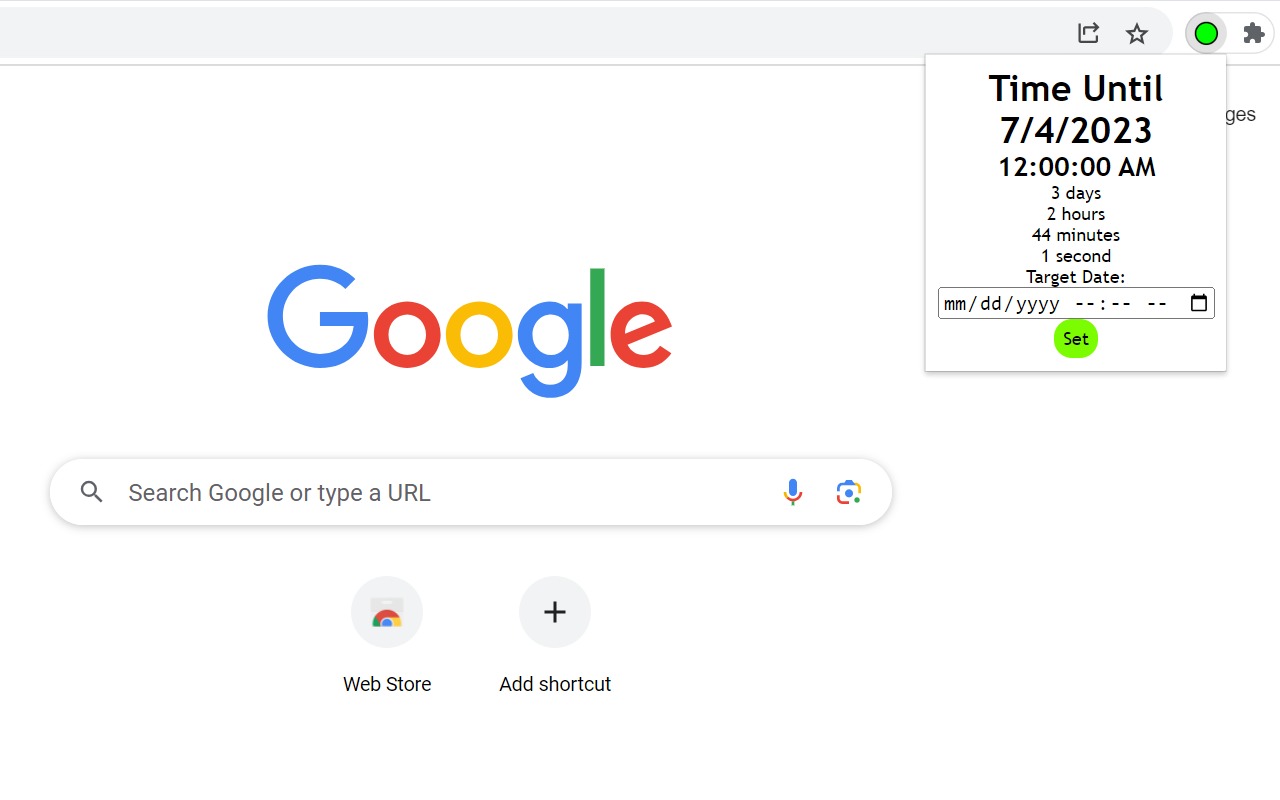
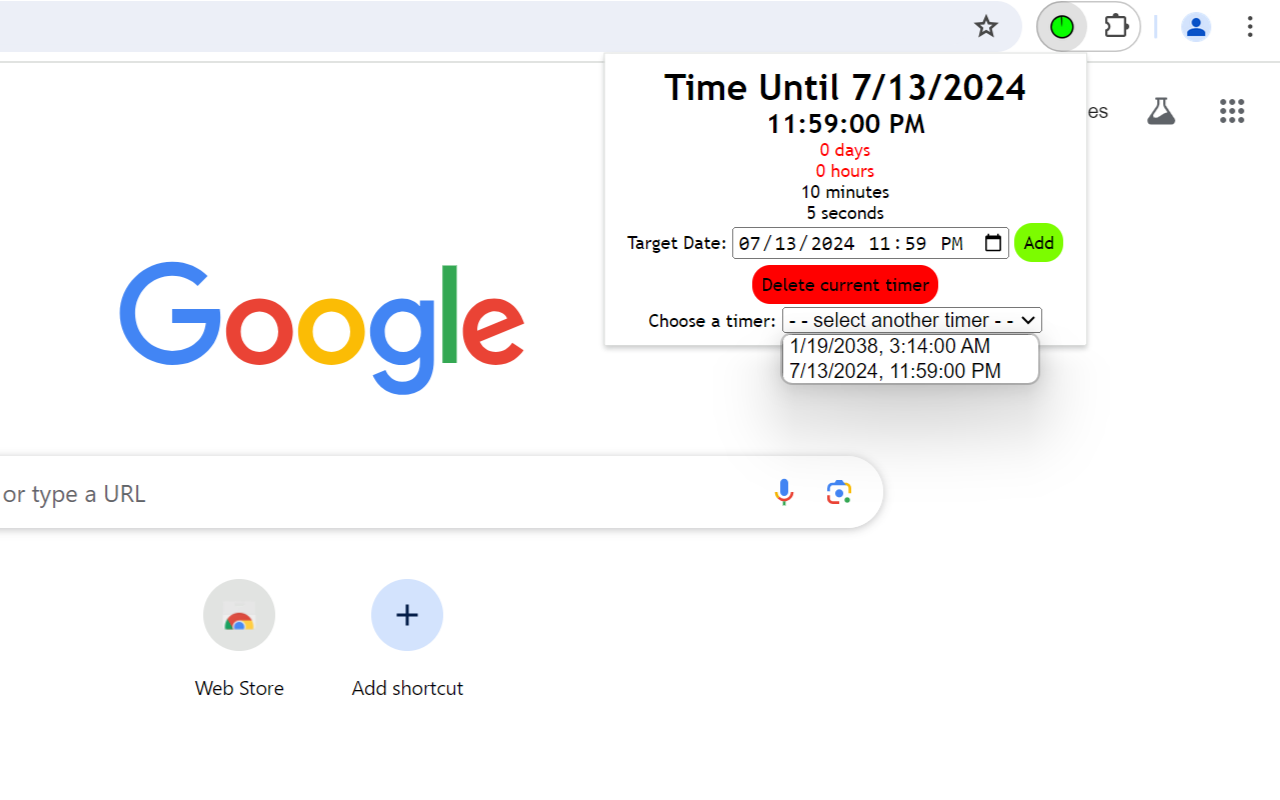
updated chrome version

diff --git a/Chrome/popup/countdown.js b/Chrome/popup/countdown.js
@@ -1,18 +1,36 @@
-const set = document.getElementById("set");
-set.addEventListener('click', () => setDate());
+populate();
+const add = document.getElementById("add");
+add.addEventListener('click', () => setDate());
+const remove = document.getElementById("remove");
+remove.addEventListener('click', () => awaitRemove());
+var list = document.getElementById("list");
+list.addEventListener("change", () => changeDate());
 calcOffset();
 setInterval(() => calcOffset(), 1000);
 
+function changeDate() {
+    console.log('change ' + list.value);
+    chrome.storage.local.set({ 'number': list.value });
+}
+async function awaitRemove() {
+    var num = await chrome.storage.local.get('number');
+    removeDate(num.number);
+}
 
 async function calcOffset() {
     var d = new Date();
+
     try {
-        var target = await chrome.storage.local.get('target');
+        var num = await chrome.storage.local.get('number');
+        num = num.number;
+        var target = await chrome.storage.local.get(['target' + num]);
     } catch (error) {
         console.log(error);
     }
-    target = new Date(target.target);
+    target = new Date(target['target' + num]);
+
     var header = document.getElementById("header");
+
     header.textContent = "Time Until " + target.toLocaleDateString();
     var subhead = document.getElementById("subhead");
     subhead.textContent = target.toLocaleTimeString();
@@ -29,6 +47,10 @@ async function calcOffset() {
     var sec = document.getElementById("second");
     var secs = Math.max(0, Math.floor((combined) / 1000 - days * 86400 - hours * 3600 - mins * 60));
     sec.textContent = Math.floor(secs) + (Math.floor(secs) == 1 ? " second" : " seconds");
+    day.style.setProperty('color', 'black');
+    hour.style.setProperty('color', 'black');
+    min.style.setProperty('color', 'black');
+    sec.style.setProperty('color', 'black');
 
     if (days == 0) {
         day.style.setProperty('color', 'red');
@@ -41,18 +63,136 @@ async function calcOffset() {
             }
         }
     }
+    chrome.runtime.sendMessage("draw");
+
     return secs;
 }
-function setDate() {
+async function setDate() {
     calcOffset();
+    try {
+        var data = Object.keys(await chrome.storage.local.get());
+    } catch (error) {
+        console.log(error);
+    }
+    var n = (data.length - 1) / 2;
     var date = new Date(document.getElementById("date").value);
     //    var num = date.getTime()+(date.getTimezoneOffset()*60000);
     //  date = new Date(num);
     //console.log(date);
     let d = new Date();
-    if(!isNaN(date.getTime())){
-        chrome.storage.local.set({ 'target': date.getTime()});
-        chrome.storage.local.set({'start': d.getTime()});
+    if (!isNaN(date.getTime())) {
+        chrome.storage.local.set({ ['target' + n]: date.getTime() });
+        chrome.storage.local.set({ ['start' + n]: Date.now() });
+        chrome.storage.local.set({ 'number': n });
+
+        var day = document.getElementById("day");
+        var hour = document.getElementById("hour");
+        var min = document.getElementById("minute");
+        var sec = document.getElementById("second");
+
+        day.style.setProperty('color', 'black');
+        hour.style.setProperty('color', 'black');
+        min.style.setProperty('color', 'black');
+        sec.style.setProperty('color', 'black');
     }
     calcOffset();
+    populate();
+    if (!isNaN(date.getTime()))
+        chrome.runtime.sendMessage("draw");
+}
+async function populate() {
+    //converts old versions (1.x.x) to the new format of versions 2.x.x
+    try {
+        var tar = await chrome.storage.local.get('target');
+    } catch (error) {
+    }
+    tar = Object.entries(tar);
+    if(tar.length!=0){
+        var sta = await chrome.storage.local.get('start');
+        chrome.storage.local.set({'target0':tar[0][1]});
+        chrome.storage.local.set({'start0':sta.start});
+        chrome.storage.local.remove('target');
+        chrome.storage.local.remove('start');
+    }
+    //removes old timers
+    checkForFinished();
+    var stuff = await chrome.storage.local.get();
+    if(Object.values(stuff).length<=1){
+            await chrome.storage.local.set({ 'target0': (new Date(2038, 0, 19, 3, 14)).getTime() });
+            await chrome.storage.local.set({ 'start0': Date.now() });
+            await chrome.storage.local.set({ 'number': 0 });
+    }
+    //adds options to the selection so that the user can choose which timer to use
+    var list = document.getElementById("list");
+    list.options.length = 0;
+    try {
+        var number = await chrome.storage.local.get('number');
+        if (number.number == 0) {
+            chrome.storage.local.set({ 'number': 0 });
+        }
+        var data = Object.keys(await chrome.storage.local.get());
+    } catch (error) {
+        console.log(error);
+    }
+    var placeholder = document.createElement("option");
+    placeholder.text = ' - - select another timer - - ';
+    placeholder.value = 0;
+    placeholder.disabled = true;
+    placeholder.selected = true;
+    placeholder.hidden = true;
+    list.add(placeholder)
+    //   console.log((data.length-1)/2);
+    for (var i = 0; i < (data.length - 1) / 2; i++) {
+        var option = document.createElement("option");
+        var txt = await chrome.storage.local.get('target' + i);
+        //   console.log(txt);
+        txt = (new Date(txt['target' + i])).toLocaleString();
+        option.text = txt;
+        option.value = i;
+        list.add(option);
+    }
+}
+async function removeDate(num) {
+    if (num > -1) {
+        chrome.storage.local.remove('target' + num);
+        chrome.storage.local.remove('start' + num);
+        var data = await chrome.storage.local.get();
+        data = Object.entries(data);
+        var counter = 0;
+        // console.log(data);
+        for (var i = 0; i < data.length; i++) {
+            var startss = data[i][0].substring(0, 5);
+            if (startss === "start" && parseInt(data[i][0].substring(5)) > num) {
+                chrome.storage.local.set({ ['start' + (parseInt(data[i][0].substring(5)) - 1)]: data[i][1] });
+                counter++;
+            }
+            if (startss === "targe" && parseInt(data[i][0].substring(6)) > num) {
+                chrome.storage.local.set({ ['target' + (parseInt(data[i][0].substring(6)) - 1)]: data[i][1] });
+            }
+        }
+        if(counter == 0){
+            chrome.storage.local.set({'number':num-1});
+        }
+        num = (data.length - 1) / 2;
+        chrome.storage.local.remove('target' + num);
+        chrome.storage.local.remove('start' + num);
+        populate();
+        chrome.runtime.sendMessage("draw");
+
+    }
+}
+async function checkForFinished(){
+    var data = await chrome.storage.local.get();
+    data = Object.entries(data);
+  //  var num = await browser.storage.local.get('number');
+    for (var i = 0; i < data.length; i++) {
+        if(data[i][0].substring(0,6)==='target'){
+            if(data[i][1]+3600000<Date.now()){
+          //      browser.storage.local.set({'number':data[i][0].substring(6)});
+                removeDate(data[i][0].substring(6));   
+            }
+        }
+    }
+ //   browser.storage.local.set({'number':num});
+
 }

diff --git a/Firefox/popup/countdown.js b/Firefox/popup/countdown.js
@@ -14,7 +14,7 @@ function changeDate() {
 }
 async function awaitRemove() {
     var num = await browser.storage.local.get('number');
-    removeDate(num);
+    removeDate(num.number);
 }
 async function calcOffset() {
     var d = new Date();
@@ -27,13 +27,14 @@ async function calcOffset() {
     } catch (error) {
         console.log(error);
     }
+    target = target['target' + num];
     //console.log(target);
     var header = document.getElementById("header");
-    header.textContent = "Time Until " + target['target' + num].toLocaleDateString();
+    header.textContent = "Time Until " + target.toLocaleDateString();
     var subhead = document.getElementById("subhead");
-    subhead.textContent = target['target' + num].toLocaleTimeString();
+    subhead.textContent = target.toLocaleTimeString();
     var day = document.getElementById("day");
-    var combined = target['target' + num] - d;
+    var combined = target - d;
     var days = Math.max(0, Math.floor((combined) / 86400000));
     day.textContent = days + (days == 1 ? " day" : " days");
     var hour = document.getElementById("hour");
@@ -60,6 +61,8 @@ async function calcOffset() {
             }
         }
     }
+    browser.runtime.sendMessage("draw");
+
     return secs;
 }
 async function setDate() {
@@ -174,12 +177,13 @@ async function removeDate(num) {
 async function checkForFinished(){
     var data = await browser.storage.local.get();
     data = Object.entries(data);
-    const date = new Date();
   //  var num = await browser.storage.local.get('number');
     for (var i = 0; i < data.length; i++) {
         if(data[i][0].substring(0,6)==='target'){
-            if(data[i][1].getTime()+3600000<date.getTime()){
-                console.log(data[i][1].getTime());
+            console.log(data[i][1].getTime());
+            console.log(Date.now());
+
+            if(data[i][1].getTime()+3600000<Date.now()){
           //      browser.storage.local.set({'number':data[i][0].substring(6)});
                 removeDate(data[i][0].substring(6));   
             }

diff --git a/Chrome/background.js b/Chrome/background.js
@@ -2,6 +2,13 @@ draw();
 chrome.tabs.onActivated.addListener(() => {
         draw();
 });
+chrome.windows.onFocusChanged.addListener((windowId) => {
+    draw();
+});
+chrome.runtime.onMessage.addListener(handleMessage);
+function handleMessage(request, sender, sendResponse) {
+    setTimeout(draw, 1000);
+}
 async function draw() {
     const canvas = new OffscreenCanvas(31, 31);
     var context = canvas.getContext('2d');
@@ -15,27 +22,25 @@ async function draw() {
     context.fill();
     var stuff = await chrome.storage.local.get();
     if(Object.values(stuff).length<=1){
-        console.log("new");
-            await chrome.storage.local.set({ 'target': target.getTime() });
-            await chrome.storage.local.set({ 'start': start.getTime() });
+            await chrome.storage.local.set({ 'target0': target.getTime() });
+            await chrome.storage.local.set({ 'start0': start.getTime() });
+            await chrome.storage.local.set({ 'number': 0 });
     }
     try {
-        target = await chrome.storage.local.get('target');
-        start = await chrome.storage.local.get('start');
+        var num = await chrome.storage.local.get('number');
+        num = num.number;
+        target = await chrome.storage.local.get('target'+num);
+        start = await chrome.storage.local.get('start'+num);
     } catch (error) {
         console.log(error);
     }    
 
-
-    let d = new Date();
-
-    // console.log(d);
-    start = start.start;
-    target = target.target;
+    start = start['start'+num];
+    target = target['target'+num];
 
     target = new Date(target);
     start = new Date(start);
-    var timePercent = Math.max((target.getTime()-d.getTime())/(target.getTime()-start.getTime()),.000001);
+    var timePercent = Math.max((target.getTime()-Date.now())/(target.getTime()-start.getTime()),.000001);
     let angle = 2*Math.PI*(1-timePercent)+(Math.PI/2);
     // console.log(timePercent*2);
     context.beginPath();

diff --git a/Chrome/popup/popup.css b/Chrome/popup/popup.css
@@ -1,3 +1,7 @@
+html {
+    min-height: 5em;
+    min-width: 20em;
+}
 body{
     color: black;
     text-align: center;
@@ -11,16 +15,25 @@ button{
     color: black;
     text-align: center;
     font-family: 'Trebuchet MS', 'Lucida Sans Unicode', 'Lucida Grande', 'Lucida Sans', Arial, sans-serif;
-    background-color: lawngreen;
     border:0;
     border-radius: 12px;
     font-size: 12px;
     width: fit-content;
     transition: 100ms;
+    margin-bottom: 2px;
 }
-button:hover{
+#add{
+    background-color: lawngreen;
+}
+#remove{
+    background-color: red;
+}
+button:hover#add{
     background-color: rgb(107, 196, 19);
 }
+button:hover#remove{
+    background-color: rgb(220, 22, 22);
+}
 button:active{
-    box-shadow: 0 2px #666;
+    box-shadow: 0 1px #666;
 }

diff --git a/Firefox/background.js b/Firefox/background.js
@@ -29,14 +29,12 @@ async function draw() {
     }    
 
 
-    let d = new Date();
-
     //console.log(d);
     start = start['start'+num];
     target = target['target'+num];
     // console.log(start);
     // console.log(target);
-    var timePercent = Math.max((target.getTime()-d.getTime())/(target.getTime()-start.getTime()),.000001);
+    var timePercent = Math.max((target.getTime()-Date.now())/(target.getTime()-start.getTime()),.000001);
     let angle = 2*Math.PI*(1-timePercent)+(Math.PI/2);
     // console.log(timePercent*2);
     context.beginPath();

diff --git a/Chrome/popup/popup.html b/Chrome/popup/popup.html
@@ -16,8 +16,9 @@
     <div id="minute"></div>
     <div id="second"></div>
     <label>Target Date: </label><input type='datetime-local' id='date'>
-    <button id="set">Set</button>
-
+    <button id="add">Add</button>
+    <br><button id="remove">Delete current timer</button>
+    <br><label>Choose a timer: <select id = "list">Timer</select></label>
 </body>
 
 </html>
